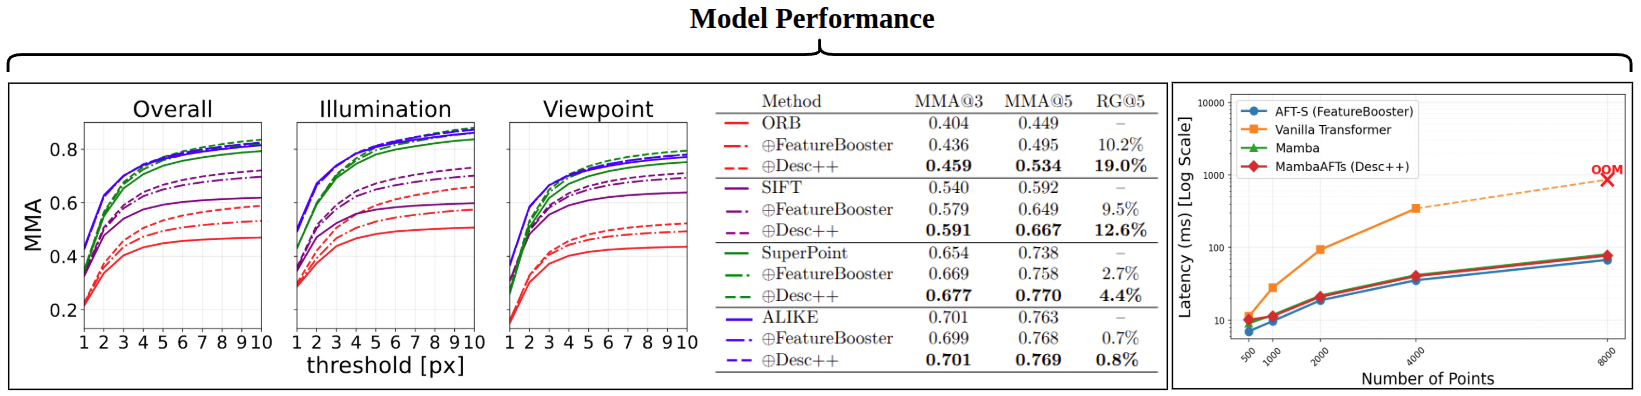
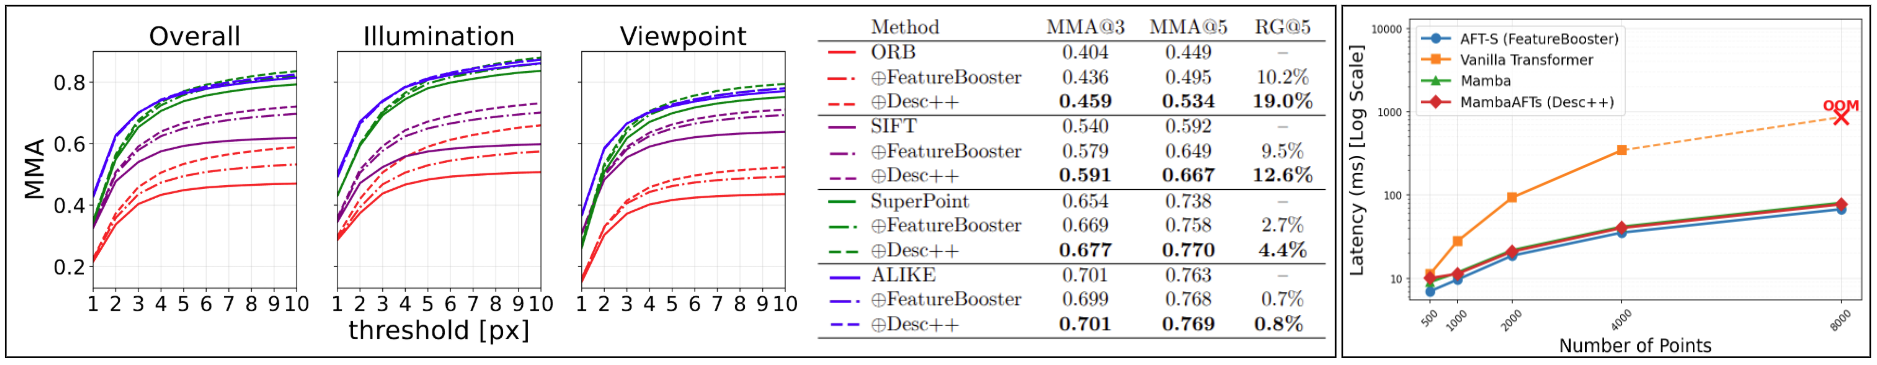
add hpatches

diff --git a/README.md b/README.md
@@ -3,12 +3,21 @@ This is a pytorch implementation of "Desc++: Efficient Context-Aware Feature Des
 
 > ⚠️ This repository is currently provided for review and demonstration purposes only. At this stage, we release the inference and demo code of Desc++, while the training code is being finalized and will be released upon paper acceptance.
 
+## Introduction
+Desc++ is a plug-and-play descriptor enhancer designed to boost matching performance and discriminative power. By seamlessly fusing raw descriptors with geometric priors, it generates high-quality representations within the original descriptor space to ensure robust data association .
+
+- Overall pipeline of Desc++
 ![1](assets/1.png)
 
-![2](assets/2.png)
+- Image matching accuracy on HPatches(Left) and inference test (Right)
+    ![2](assets/2.png)
 
+- Comparison between ORB and ORB enhanced Desc++ on HPatches
 ![3](assets/3.png)
 
+- Comparison with different features and previous work on HPatches
+![4](assets/4.png)
+***
 ### 1. Installation
 #### 💡 Requirements:
 - **Linux**
@@ -30,7 +39,7 @@ git clone https://github.com/state-spaces/mamba && cd mamba
 pip install .
 ```
 
-#### 1.3. Extractor
+#### 1.3. Install Extractor
 Desc++ currently supports several mainstream feature extractors, including ORB, SIFT, SuperPoint, and ALIKE. To utilize these features within our enhancer, please follow the steps below:
 * [ORB](https://github.com/raulmur/ORB_SLAM2) (ORB extractor of ORB-SLAM2)
     ```